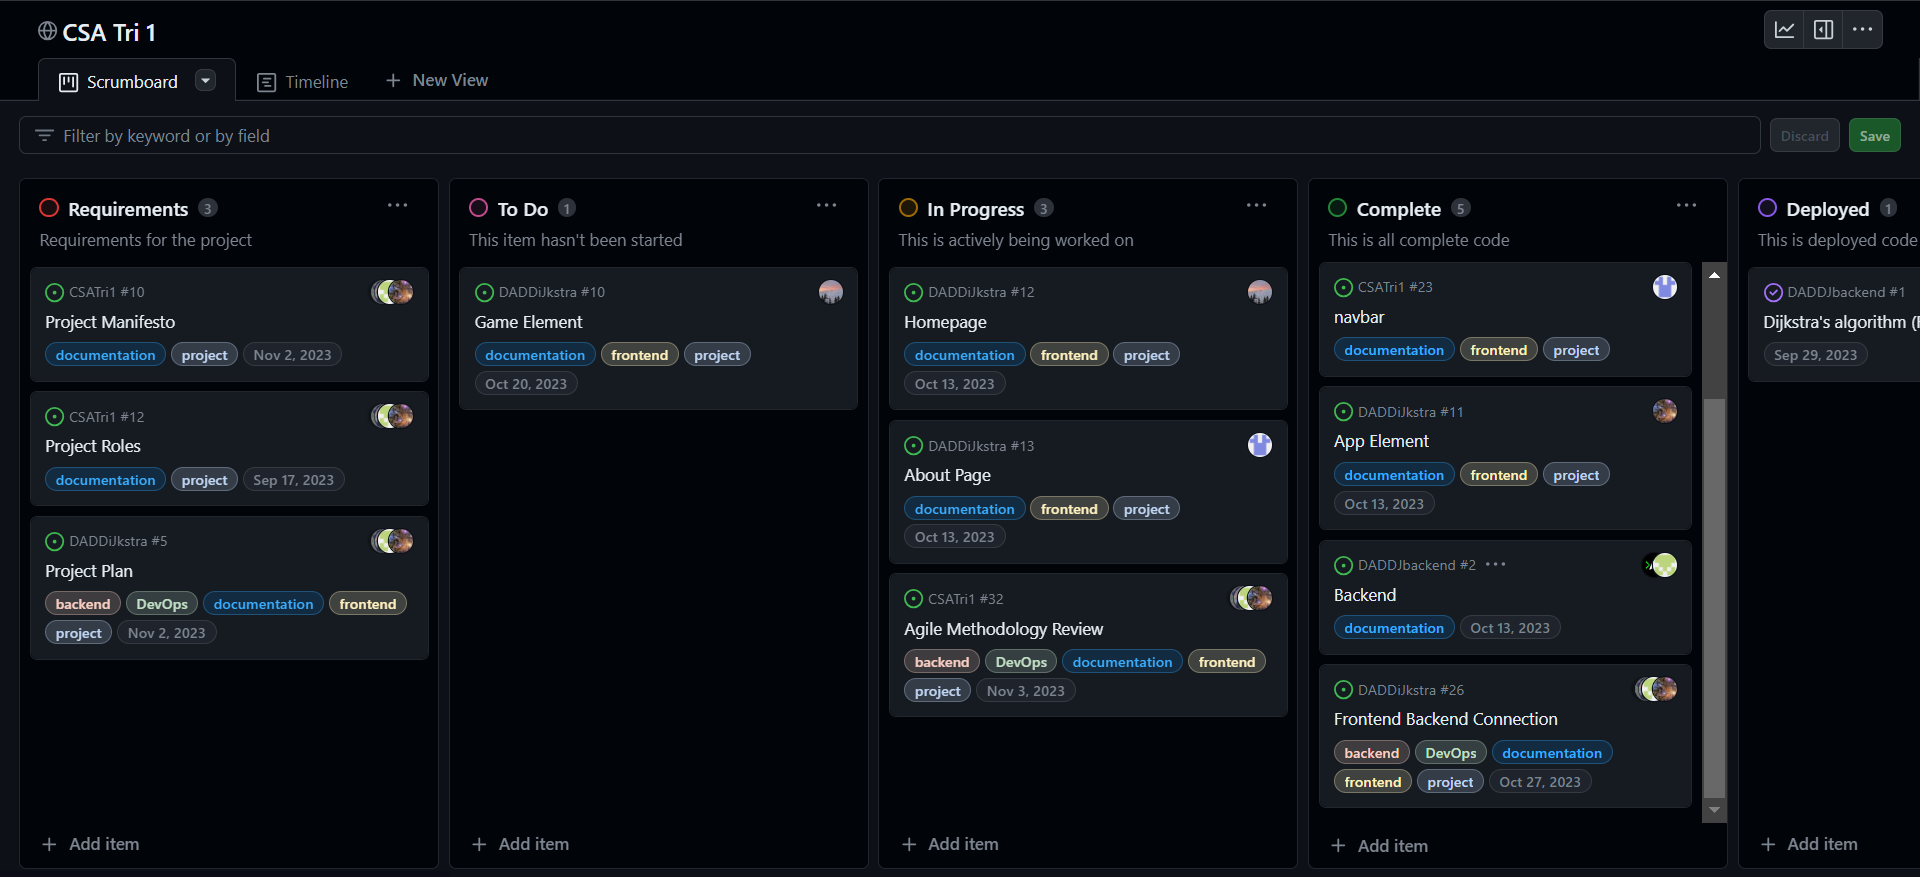
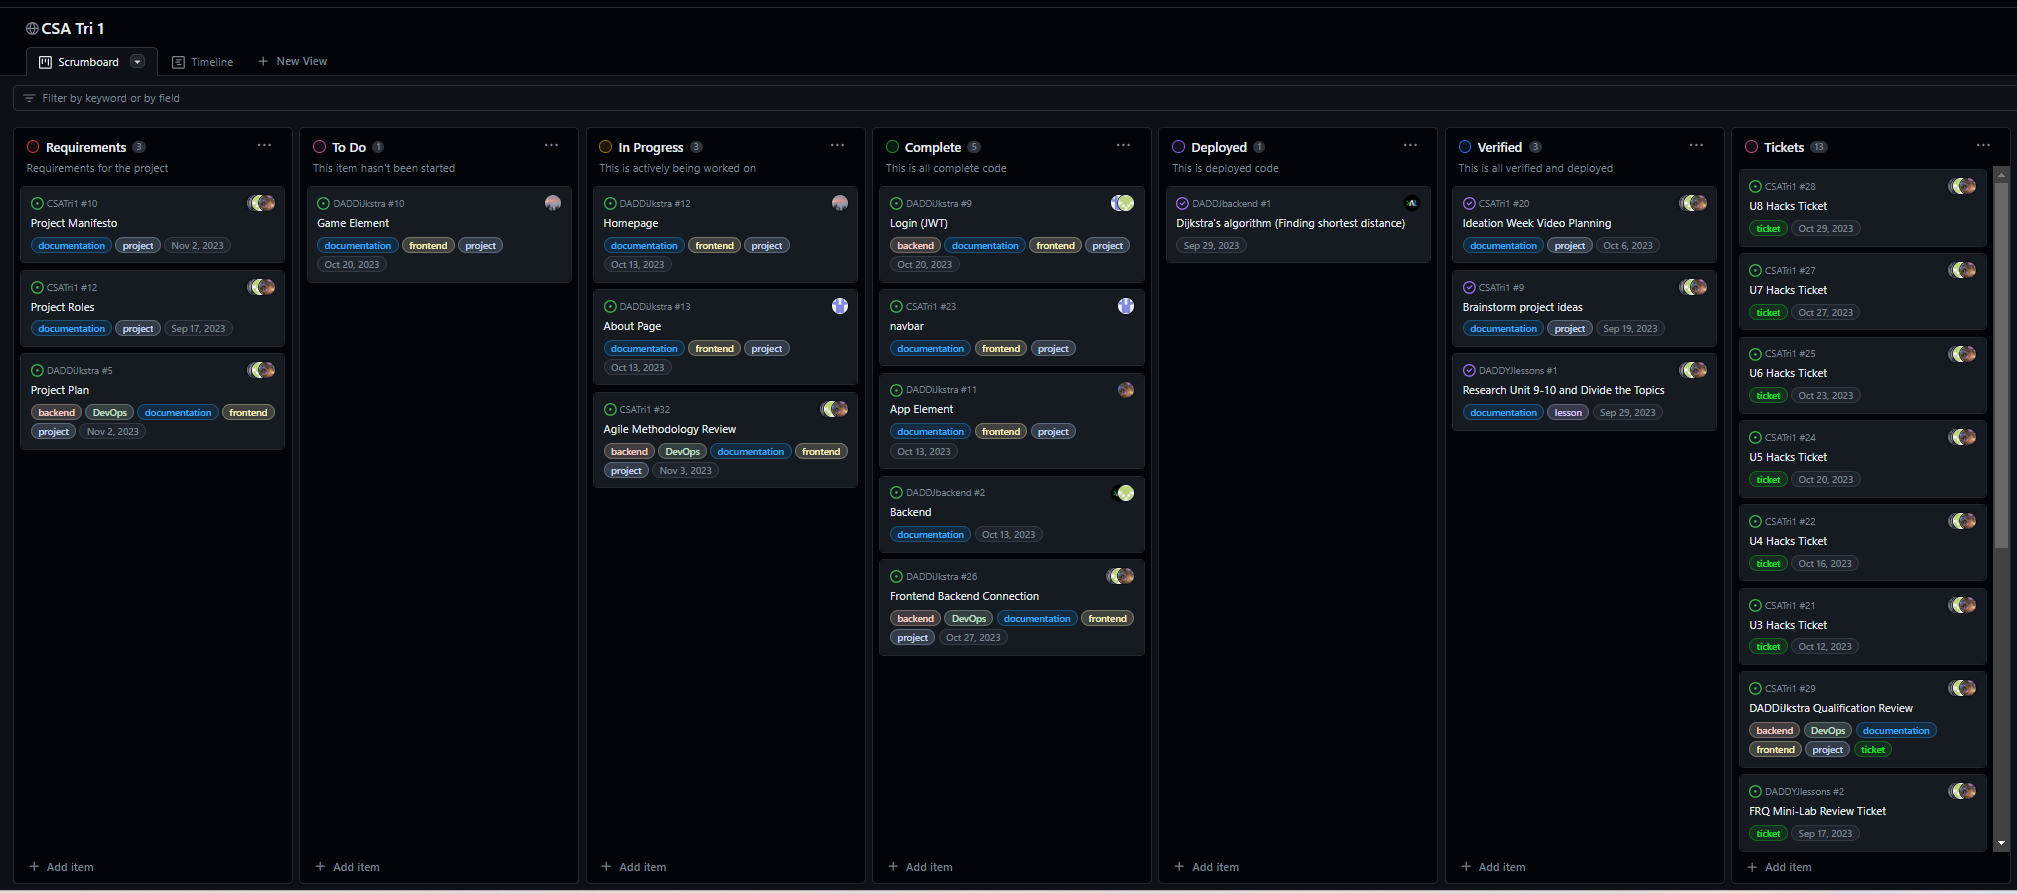
finish reflection blog

diff --git a/_posts/2023-11-03-Trimester-1-reflection.md b/_posts/2023-11-03-Trimester-1-reflection.md
@@ -17,10 +17,6 @@ Below is the picture for my contributions on the backend project:
 Below is the picture for my contributions on the frontend project, keeping in mind that  we had multiple iterations of the frontend, which was due to the fact that we tried multiple frontend frameworks (svelt, vue.js, then to fastpages). There are more commits I had on the other repos, but they didn't contribute to our project at the end, so I didn't incorporate them.  
 ![Backend Commit Trend](/assets/img/tri1/fe_commits.png)   
 
-
-## Code Reflection/ Knolwedge gained
-Overall, I feel like the project this trimester has forced me to go beyond the usual algorithms I write to research, design, and formulate a unique algorithm that people (in this class) haven't seen before. Being in CSA, I was able to successfully incorporate aspects of Object-Oriented Programming into my backend and frontend code to make the  project work efficient and modularily. Additionally, I was able to make use of my knowledge in applied/discrete math to actually understand the proofs for the Dijkstra algorithm, when it came to proving its running time and space complexity. Doing so made designing more complex objects, such as the weighted graph, or the controllers for the frontend easier to manage, and more versatile as a result.  
-
 ### Dijkstra's algorithm
 As the one who proposed the project, I was naturally also responsible for implementing the algorithm. The implementation was largely seperated into two different portions:  
  - The Data Structures  
@@ -79,7 +75,15 @@ Here is the reflection to my collegeboard MCQ: [link](https://ylu-1258.github.io
 
 Here is the link to my lab notebook: [link](https://ylu-1258.github.io/YLU_blog/lab-notebook/)
 
-Here is the link to my scores for the past few weeks of student lessons: [link]
+Here is the link to my scores for the past few weeks of student lessons: [link](https://github.com/YLu-1258/YLU_blog/issues/6)
+
+
+## Reflection as Scrum Master
+As Scrum Master, this was definitely one of the more functional teams that I've had in CS before. Everyone knew their corresponding tasks and was able to successfully complete it before the deadline. As Scrum Master, I was also on top of creating issues and ensuring that the project was on track, as evident by our scrum board:  
+![Scrumboard](/assets/img/tri1/scrumboard.png)  
+However, one thing that could be improved on for our team, is to focus more on the features and plan well during feature week. We faced many difficulties in our project because of poor planning that caused us to restart our frontend many times. It was due to this that we had to scrap one of our project ideas.
+## Code Reflection/ Knolwedge gained
+Overall, I feel like the project this trimester has forced me to go beyond the usual algorithms I write to research, design, and formulate a unique algorithm that people (in this class) haven't seen before. Being in CSA, I was able to successfully incorporate aspects of Object-Oriented Programming into my backend and frontend code to make the  project work efficient and modularily. Additionally, I was able to make use of my knowledge in applied/discrete math to actually understand the proofs for the Dijkstra algorithm, when it came to proving its running time and space complexity. Doing so made designing more complex objects, such as the weighted graph, or the controllers for the frontend easier to manage, and more versatile as a result.  
 
 ## Final thoughts
-Overall, I believe that this trimester was an especially rewarding experience. Not only did I gain experience in working with higher level algorithms that aren't covered by the CollegeBoard curriculum, I have also been inspired by other N@TM projects for new ideas for projects whether it be in the classroom or outside. It was also a good lesson learned that most frameworks don't work well with each other, and careful planning is paramount for a successful and cohesive project.
+Overall, I believe that this trimester was an especially rewarding experience. Not only did I gain experience in working with higher level algorithms that aren't covered by the CollegeBoard curriculum, I have also been inspired by other N@TM projects for new ideas for projects whether it be in the classroom or outside. In particular, I want to see if I could pursue an AI project next trimester by training my own AI model in the backend with Java and linking it up with Spring Boot to display data. It would be cool if I could create a stock predictor or something similar to that idea. Learning Java this trimester also helped to reinforce the OOP knowledge that I have, and laid the groundwork for me to imrpove at the collegeboard exams. It was also a good lesson learned that most frameworks don't work well with each other, and careful planning is paramount for a successful and cohesive project.
